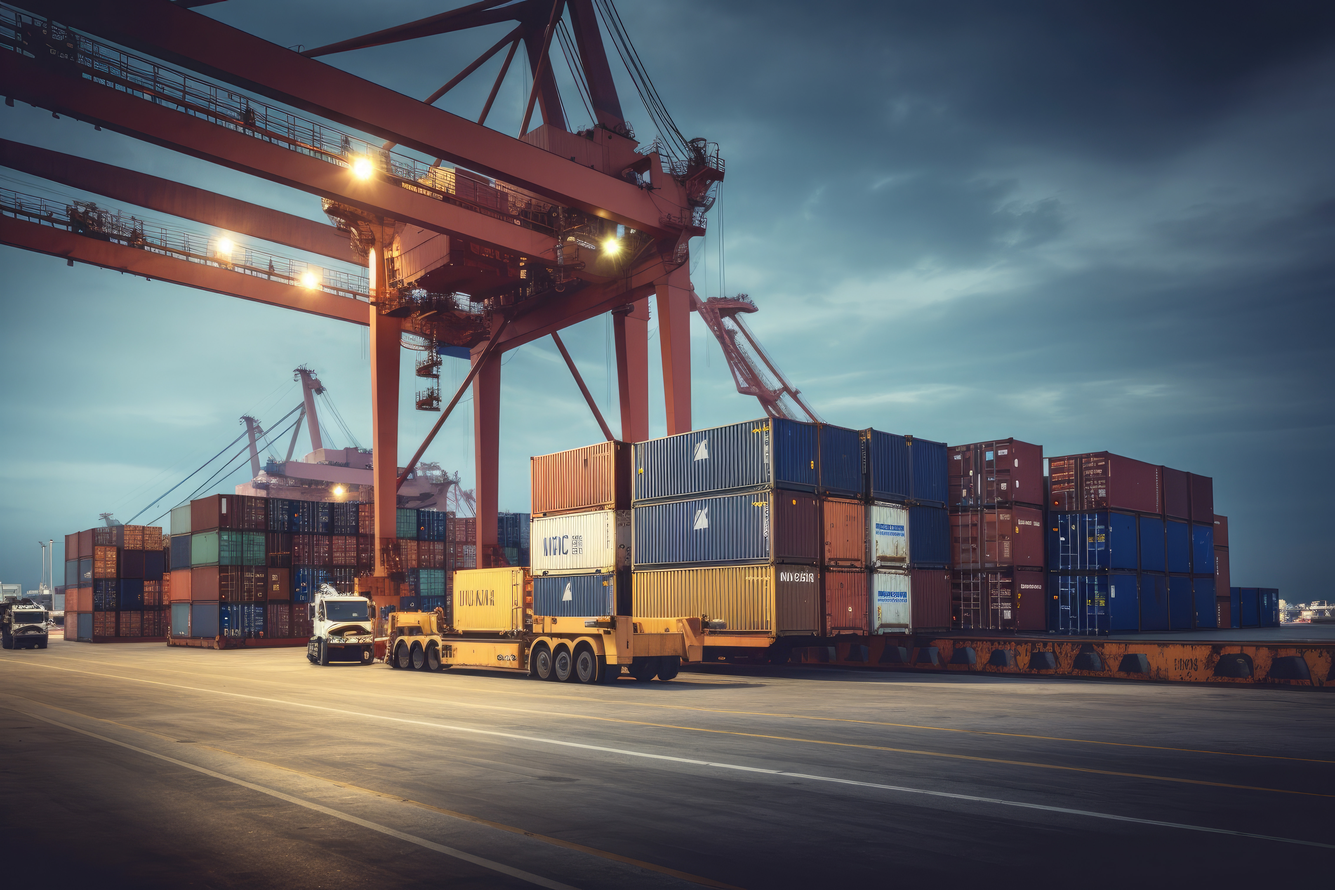
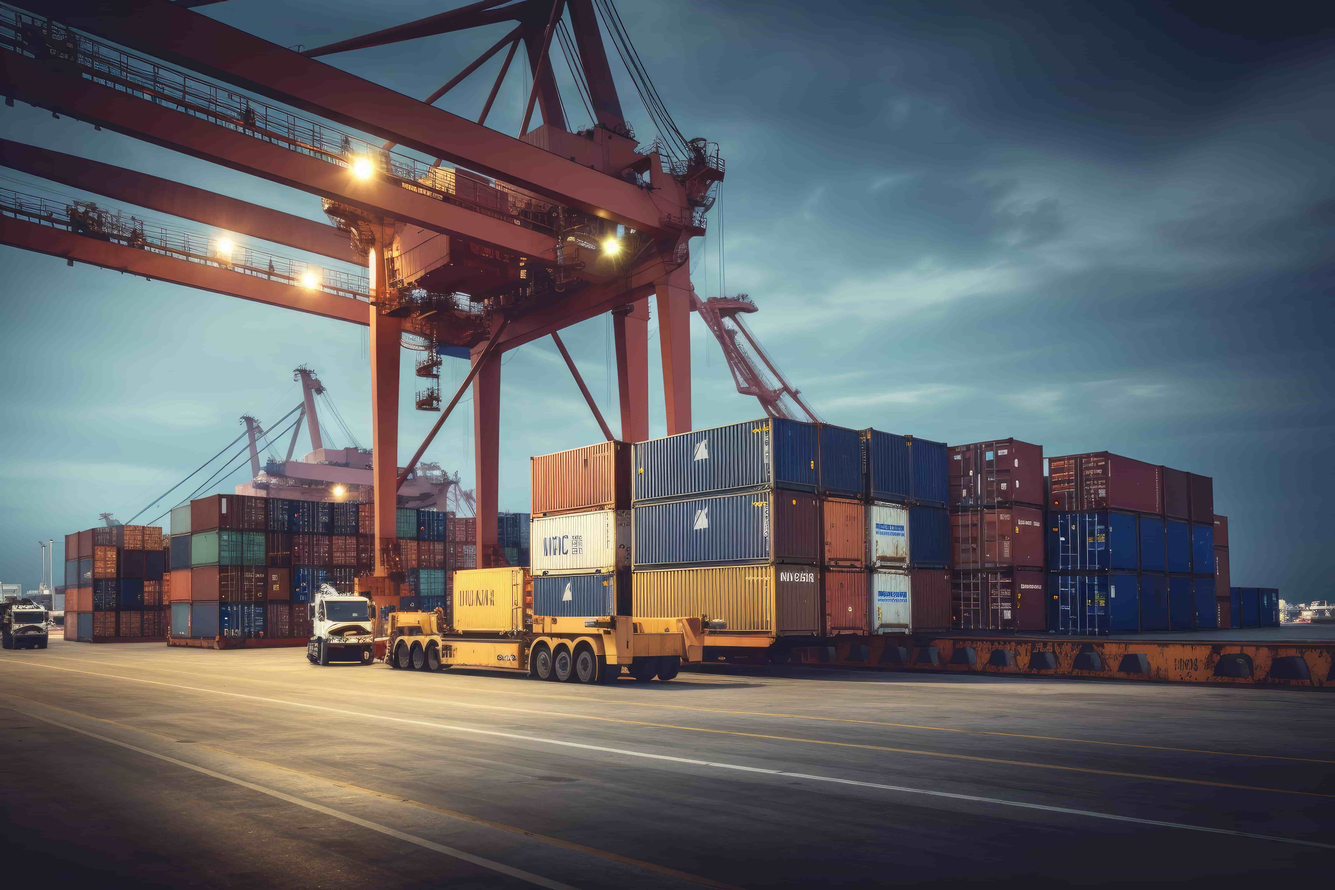
Update landing page image format to WebP and updated some images sizes

Changed region(s): [[0.3125, 0.1875, 0.3438, 0.2188]]

diff --git a/index.html b/index.html
@@ -61,7 +61,7 @@
     <div class="landing">
       <div class="slider">
         <div class="slides">
-          <img src="images/landing3.jpg" class="slide active" />
+          <img src="images/landing3.webp" class="slide active" />
           <img src="images/landing4.jpg" class="slide" />
           <img src="images/landing1.jpg" class="slide" />
           <img src="images/ship.jpg" class="slide" />
